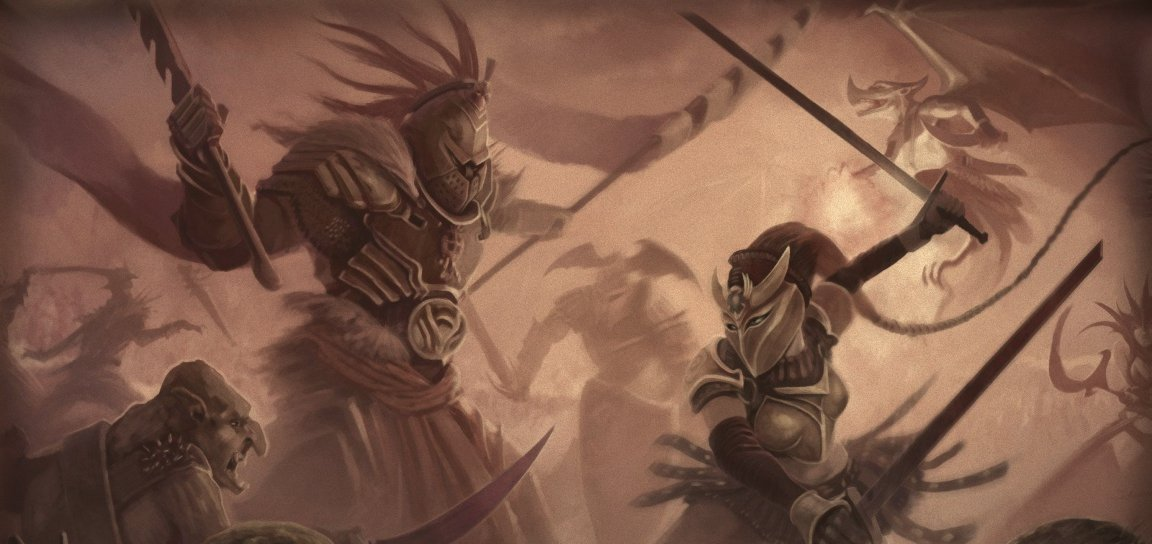
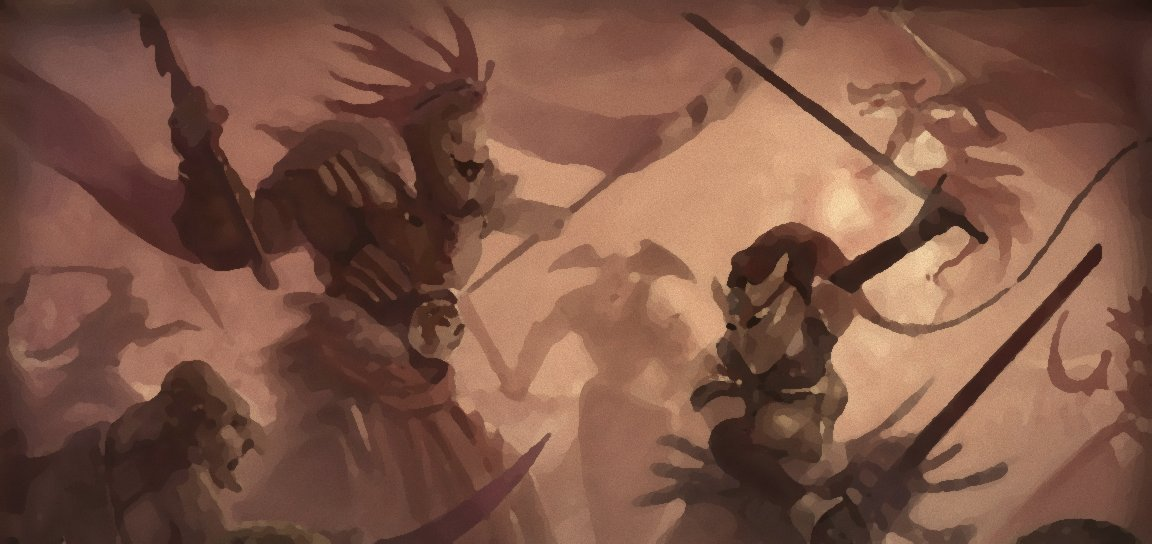
Add an oil-painting brushstroke pass to the two official pieces
Before the colour grade, run Against the Dragon and Volkare's Return through
an oil-painting (mode-of-intensity brushstroke) filter so their forms break
into painted facets rather than smooth digital gradients - then the paintify
grade on top. Brings them much closer to the oil-painting slate.

Claude-Session: https://claude.ai/code/session_01GxJGENoyPd1RSQYm9Hc5Gg

diff --git a/app/src/main/assets/scenario-art/README.md b/app/src/main/assets/scenario-art/README.md
@@ -35,8 +35,9 @@ avoided by default (cropping/scrim makes an adaptation that must carry ShareAlik
 
 **Two knowing exceptions** reuse official © WizKids *Mage Knight* art — *Against the Dragon*
 (Apocalypse Dragon) and *Volkare's Return* (Lost Legion) — where no clean image reads as
-unambiguously as the real antagonist. Both are lightly colour-graded (muted, warmed, softened, with
-a little grain) so they sit alongside the painted set. These are marked `license = OFFICIAL` and fall under ADR-0010's
+unambiguously as the real antagonist. Both are put through an oil-painting (brushstroke) pass and
+lightly colour-graded (muted, warmed, softened, with a little grain) so they sit alongside the
+painted set. These are marked `license = OFFICIAL` and fall under ADR-0010's
 risk-accepted stance (attribution + non-affiliation disclaimer in Settings → Credits), not the clean
 scope above. Verify each image's licence at its `sourceUrl` before adding it.
 
